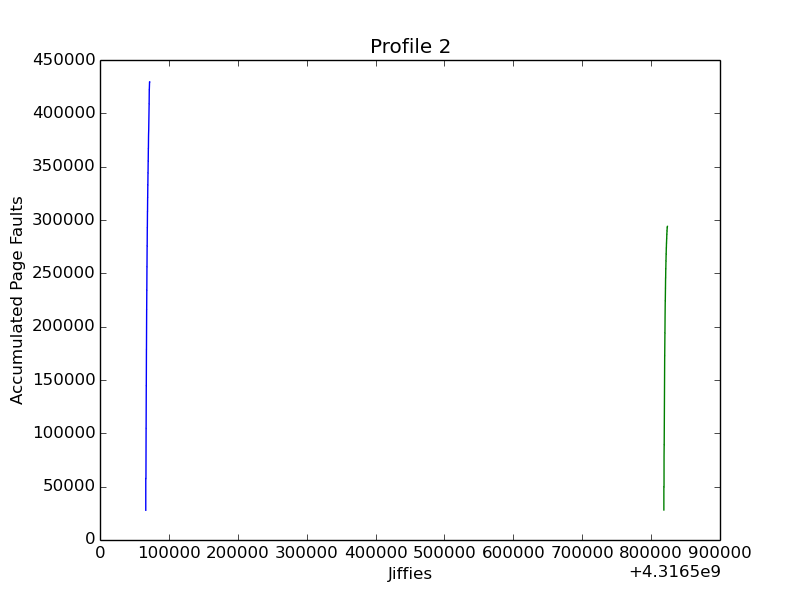
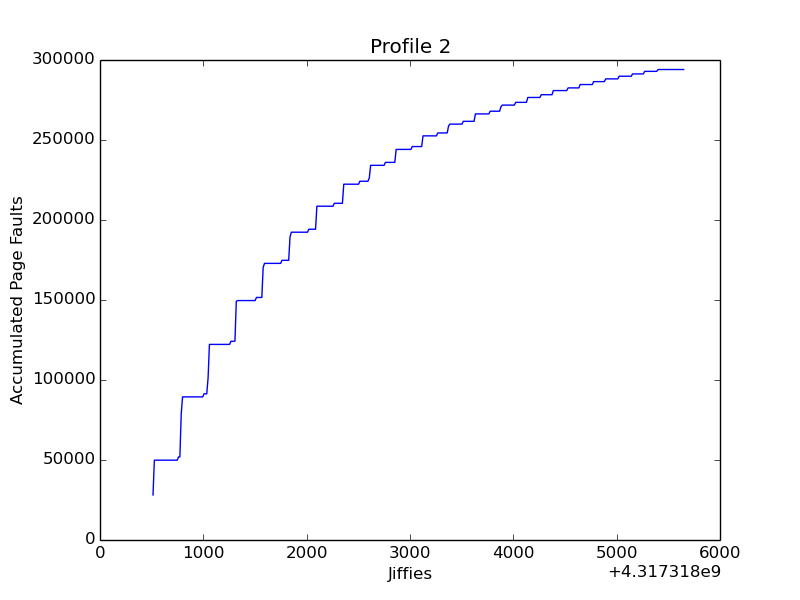
case 1 graphs

diff --git a/case_1.py b/case_1.py
@@ -52,7 +52,7 @@ for entry in data:
 data_np = np.array(data)
 print data_np
 
-
+plt.figure()
 plt.plot(data_np[:,3], page_fault_accum)
 plt.title("Profile 2")
 plt.xlabel("Jiffies")
